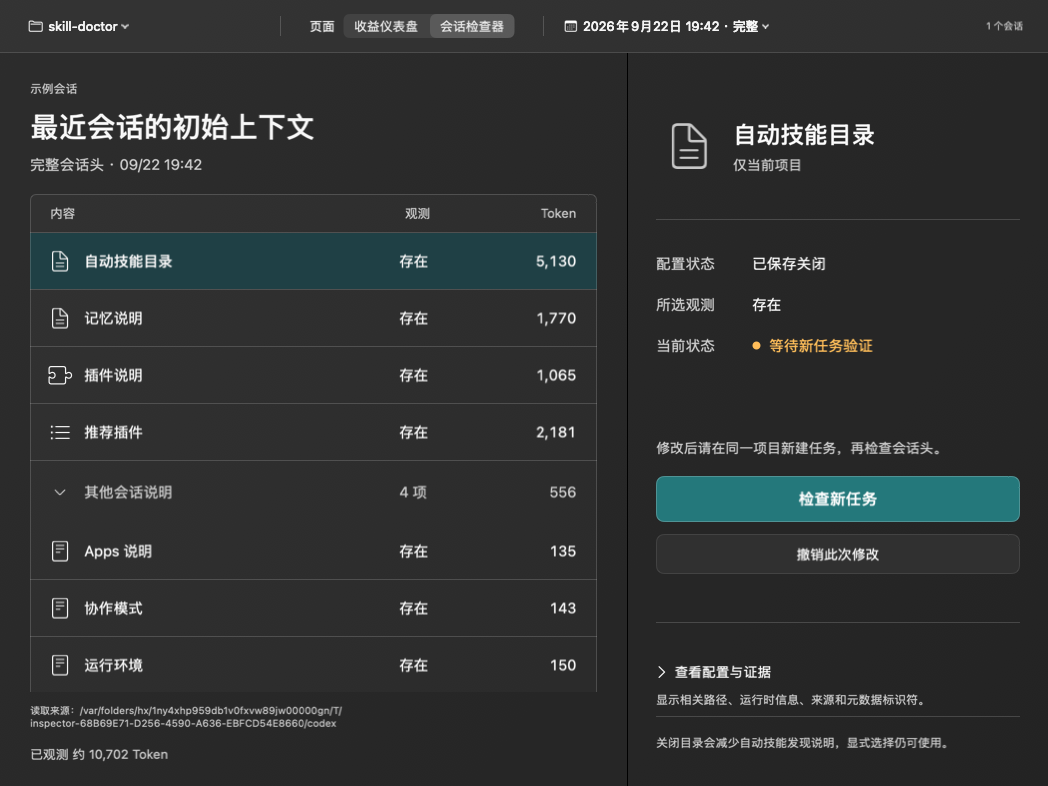
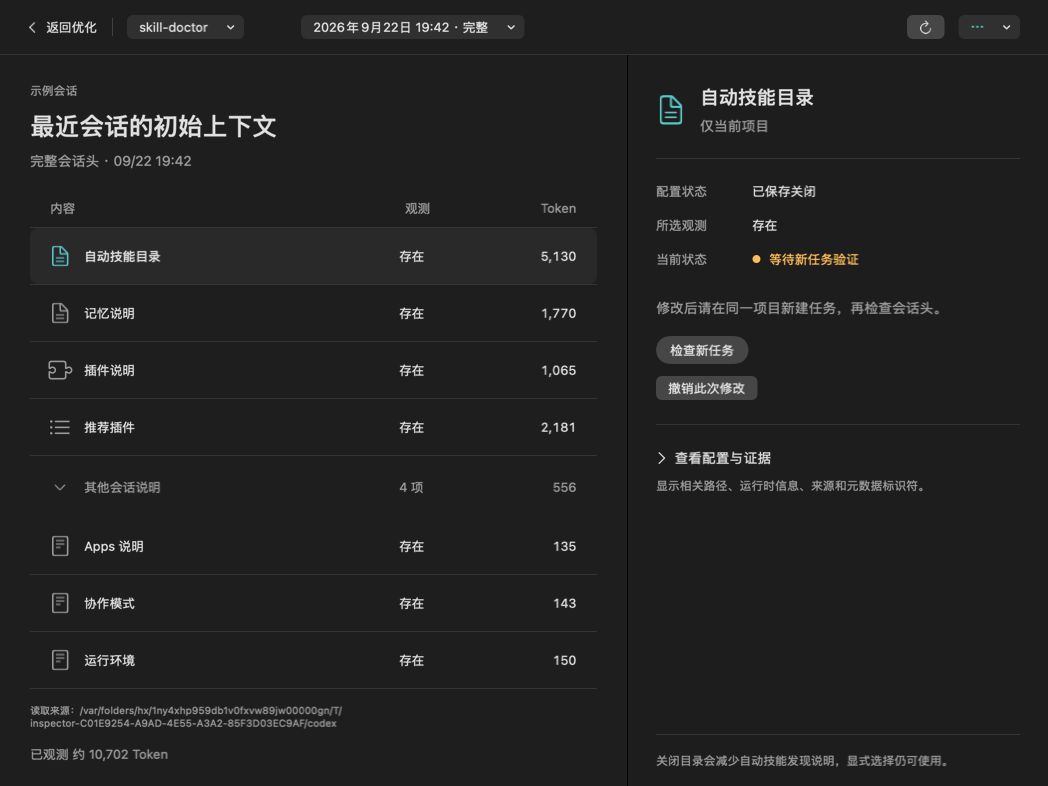
feat(ui): unify session inspector with native workbench styling

diff --git a/Sources/CodexContextBar/Dashboard.swift b/Sources/CodexContextBar/Dashboard.swift
@@ -15,22 +15,19 @@ struct Dashboard: View {
             } else {
                 SessionSelectionBar(model: model)
                 InspectorDivider()
-                GeometryReader { geometry in
-                    HSplitView {
-                        overview
-                            .frame(minWidth: 470, idealWidth: 628, maxWidth: .infinity, maxHeight: .infinity)
-                        inspector(compact: geometry.size.height < 720)
-                            .frame(minWidth: 340, idealWidth: 420, maxWidth: 420, maxHeight: .infinity)
-                    }
+                HSplitView {
+                    overview
+                        .frame(minWidth: 470, idealWidth: 628, maxWidth: .infinity, maxHeight: .infinity)
+                    inspector
+                        .frame(minWidth: 340, idealWidth: 420, maxWidth: 420, maxHeight: .infinity)
                 }
             }
         }
-        .background { GlassBackground() }
+        .background(InspectorTheme.background)
         .foregroundStyle(InspectorTheme.text)
 
         .tint(InspectorTheme.teal)
         .frame(minWidth: 880, minHeight: 640)
-        .toolbar { if !model.showingSavings { InspectorToolbar(model: model) } }
         .sheet(item: $model.preview) { preview in ConfigPreviewSheet(model: model, preview: preview) }
         .sheet(isPresented: $model.showingHistory) { OperationHistorySheet(model: model) }
         .alert(model.language.text("无法完成操作"), isPresented: Binding(get: { model.error != nil }, set: { if !$0 { model.error = nil } })) {
@@ -48,9 +45,9 @@ struct Dashboard: View {
                 Text(model.language.text(model.isDesignPreview ? "示例会话" : "历史会话"))
                     .font(.system(size: 12)).foregroundStyle(InspectorTheme.secondary)
                 Text(model.language.text(model.selected?.id == model.sessions.first?.id ? "最近会话的初始上下文" : "所选会话的初始上下文"))
-                    .font(.system(size: 30, weight: .semibold))
+                    .font(.system(size: 26, weight: .semibold))
                     .fixedSize(horizontal: false, vertical: true)
-                Text(sessionSubtitle).font(.system(size: 15)).foregroundStyle(InspectorTheme.secondary)
+                Text(sessionSubtitle).font(.system(size: 14)).foregroundStyle(InspectorTheme.secondary)
             }.padding(.bottom, 20)
             if let session = model.selected, !session.complete {
                 VStack(alignment: .leading, spacing: 10) {
@@ -98,7 +95,7 @@ struct Dashboard: View {
                                     Text(String(format: model.language.text("%d 项"), otherItems.count)).frame(width: 84, alignment: .leading)
                                     Text(otherItems.compactMap { $0.tokens(in: model.selected) }.reduce(0, +).formatted()).monospacedDigit().frame(width: 80, alignment: .trailing)
                                 }
-                                .font(.system(size: 15)).foregroundStyle(InspectorTheme.secondary)
+                                .font(.system(size: 13)).foregroundStyle(InspectorTheme.secondary)
                                 .padding(.horizontal, 20).frame(minHeight: 62).contentShape(Rectangle())
                             }
                             .buttonStyle(.plain)
@@ -106,13 +103,11 @@ struct Dashboard: View {
                             if expandedOthers { ForEach(otherItems) { item in itemRow(item) } }
                         }
                     }
-                    .background(.white.opacity(0.025))
-                    .clipShape(RoundedRectangle(cornerRadius: 6))
-                    .overlay(RoundedRectangle(cornerRadius: 6).strokeBorder(InspectorTheme.line))
+
 
 
                 }
-                .scrollIndicators(.visible)
+                .scrollIndicators(.automatic)
             }
             if let warning = model.warning {
                 inlineNotice(model.language.text(warning))
@@ -141,16 +136,17 @@ struct Dashboard: View {
                 showingEvidence = false
             } label: {
                 HStack(spacing: 14) {
-                    Image(systemName: item.symbol).font(.system(size: 20, weight: .light)).frame(width: 20)
-                    Text(model.language.text(item.title)).fontWeight(model.selectedKind == item.id ? .medium : .regular)
+                    Image(systemName: item.symbol).font(.system(size: 20, weight: .regular)).frame(width: 20)
+                        .foregroundStyle(model.selectedKind == item.id ? InspectorTheme.teal : InspectorTheme.secondary)
+                    Text(model.language.text(item.title)).lineLimit(2).truncationMode(.middle).fontWeight(model.selectedKind == item.id ? .medium : .regular)
                         .frame(maxWidth: .infinity, alignment: .leading)
                     Text(model.language.text(item.observation(in: model.selected))).frame(width: 84, alignment: .leading)
                     Text(item.tokens(in: model.selected)?.formatted() ?? "—")
                         .monospacedDigit().frame(width: 80, alignment: .trailing)
                 }
-                .font(.system(size: 15))
+                .font(.system(size: 13))
                 .padding(.horizontal, 20).frame(minHeight: 56)
-                .background(model.selectedKind == item.id ? InspectorTheme.selection : .clear)
+                .background(model.selectedKind == item.id ? InspectorTheme.selection.opacity(0.5) : .clear, in: RoundedRectangle(cornerRadius: 8))
                 .contentShape(Rectangle())
             }
             .buttonStyle(.plain)
@@ -159,41 +155,41 @@ struct Dashboard: View {
         }
     }
 
-    private func inspector(compact: Bool) -> some View {
+    private var inspector: some View {
         VStack(alignment: .leading, spacing: 0) {
             ScrollView {
                 VStack(alignment: .leading, spacing: 0) {
-                    HStack(alignment: .center, spacing: 20) {
+                    HStack(alignment: .center, spacing: 14) {
                         Image(systemName: model.selectedItem.symbol)
-                            .font(.system(size: 44, weight: .light)).foregroundStyle(InspectorTheme.secondary)
+                            .font(.system(size: 28, weight: .regular)).foregroundStyle(InspectorTheme.teal)
                         VStack(alignment: .leading, spacing: 8) {
-                            Text(model.language.text(model.selectedItem.title)).font(.system(size: 25, weight: .semibold))
+                            Text(model.language.text(model.selectedItem.title)).font(.system(size: 20, weight: .semibold))
                                 .fixedSize(horizontal: false, vertical: true)
                             Text(model.language.text(model.selectedItem.scope)).font(.system(size: 14)).foregroundStyle(InspectorTheme.secondary)
                         }
                     }
-                    .padding(.leading, 10)
-                    .padding(.top, compact ? 34 : 66).padding(.bottom, compact ? 30 : 46)
+                    .padding(.top, 30).padding(.bottom, 24)
                     InspectorDivider()
-                    VStack(alignment: .leading, spacing: compact ? 18 : 22) {
+                    VStack(alignment: .leading, spacing: 18) {
                         detailRow("配置状态", value: model.configurationLabel(for: model.selectedItem.target))
                         detailRow("所选观测", value: model.language.text(model.selectedItem.observation(in: model.selected)))
                         HStack(alignment: .top, spacing: 18) {
-                            Text(model.language.text("当前状态")).foregroundStyle(InspectorTheme.secondary).frame(width: 78, alignment: .leading)
+                            Text(model.language.text("当前状态")).foregroundStyle(InspectorTheme.secondary).frame(width: model.language == .english ? 104 : 78, alignment: .leading)
                             StatusLabel(text: model.language.text(statusText), color: statusColor).fixedSize(horizontal: false, vertical: true)
-                        }.font(.system(size: 15))
-                    }.padding(.vertical, compact ? 22 : 34)
-                    actions.padding(.top, compact ? 14 : 50).padding(.bottom, compact ? 24 : 48)
+                        }.font(.system(size: 13))
+                    }.padding(.vertical, 24)
+                    actions.padding(.top, 8).padding(.bottom, 24)
                     InspectorDivider()
-                    evidence.padding(.vertical, compact ? 22 : 40)
+                    evidence.padding(.vertical, 24)
                 }
             }.scrollIndicators(.automatic)
             InspectorDivider()
             Text(model.language.text(model.selectedItem.consequence))
                 .font(.system(size: 12)).lineSpacing(3).foregroundStyle(InspectorTheme.secondary)
                 .fixedSize(horizontal: false, vertical: true)
-                .padding(.top, 18).padding(.bottom, compact ? 20 : 36)
+                .padding(.vertical, 18)
         }.padding(.horizontal, 28)
+            .background(InspectorTheme.raised.opacity(0.45))
     }
 
     @ViewBuilder private var actions: some View {
@@ -203,17 +199,17 @@ struct Dashboard: View {
                     .fixedSize(horizontal: false, vertical: true).padding(.bottom, 8)
                 if let result = model.result(for: target), result.state == .waiting || result.state == .mismatch || result.state == .configChanged {
                     Button(model.language.text(model.refreshing ? "正在检查…" : "检查新任务")) { Task { await model.refresh() } }
-                        .buttonStyle(InspectorButtonStyle(prominent: true)).disabled(model.refreshing)
+                        .buttonStyle(.borderedProminent).controlSize(.large).disabled(model.refreshing)
                 } else {
                     Button(model.language.text(model.configuredValues[target] == false ? "预览开启" : "预览关闭")) {
                         model.prepare(target, enabled: model.configuredValues[target] == false)
                     }
-                    .buttonStyle(InspectorButtonStyle(prominent: true))
+                    .buttonStyle(.borderedProminent).controlSize(.large)
                     .disabled(model.selected?.complete != true || model.configProblems[target] != nil)
                 }
                 if let operation = model.operation(for: target), !operation.restored {
                     Button(model.language.text("撤销此次修改")) { undoCandidate = operation }
-                        .buttonStyle(InspectorButtonStyle())
+                        .buttonStyle(.bordered)
                 }
                 if let result = model.result(for: target), result.state == .configChanged {
                     Button(model.language.text("重新预览配置")) { model.prepare(target, enabled: model.configuredValues[target] == false) }
@@ -227,7 +223,7 @@ struct Dashboard: View {
                     .font(.system(size: 14)).lineSpacing(4).foregroundStyle(InspectorTheme.secondary)
                 if model.selectedItem.id == "plugins.recommendations" {
                     Button(model.language.text("查看 Plugins 功能")) { model.selectedKind = "plugins.usage_instructions" }
-                        .buttonStyle(InspectorButtonStyle())
+                        .buttonStyle(.bordered)
                 }
             }
         }
@@ -280,9 +276,9 @@ struct Dashboard: View {
 
     private func detailRow(_ title: String, value: String) -> some View {
         HStack(alignment: .top, spacing: 18) {
-            Text(model.language.text(title)).foregroundStyle(InspectorTheme.secondary).frame(width: 78, alignment: .leading)
+            Text(model.language.text(title)).foregroundStyle(InspectorTheme.secondary).frame(width: model.language == .english ? 104 : 78, alignment: .leading)
             Text(value).fixedSize(horizontal: false, vertical: true)
-        }.font(.system(size: 15))
+        }.font(.system(size: 13))
     }
 
     private var statusText: String {
@@ -338,7 +334,7 @@ struct Dashboard: View {
             Text(model.language.text(title)).font(.system(size: 21, weight: .medium))
             Text(model.language.text(description)).font(.system(size: 14)).foregroundStyle(InspectorTheme.secondary).lineSpacing(4)
             Button(model.language.text(model.project == nil ? "选择项目" : "检查会话"), action: action)
-                .buttonStyle(InspectorButtonStyle(prominent: true)).frame(maxWidth: 240).disabled(model.refreshing)
+                .buttonStyle(.borderedProminent).controlSize(.large).frame(maxWidth: 240).disabled(model.refreshing)
         }.frame(maxWidth: .infinity, alignment: .leading).padding(.top, 42)
     }
 }

diff --git a/Sources/CodexContextBar/InspectorToolbar.swift b/Sources/CodexContextBar/InspectorToolbar.swift
@@ -22,62 +22,77 @@ struct ProjectMenu: View {
     }
 }
 
-struct InspectorToolbar: ToolbarContent {
+struct WorkbenchSettings: View {
     @Bindable var model: AppModel
-    var body: some ToolbarContent {
-        ToolbarItemGroup(placement: .primaryAction) {
-            Button { Task { await model.refresh() } } label: {
-                if model.refreshing { ProgressView().controlSize(.small) }
-                else { Image(systemName: "arrow.clockwise") }
-            }.disabled(model.refreshing || model.project == nil).help(model.language.text("检查新的会话记录")).accessibilityLabel(model.language.text("刷新会话"))
-            GlassAppearanceControl()
-            Menu {
-                Button(model.language.text("简体中文")) { model.language = .chinese }
-                Button("English") { model.language = .english }
-            } label: { Image(systemName: "globe") }
-            .accessibilityLabel(model.language.text("语言"))
-            Menu {
-                Button(model.language.text("修改记录")) { model.showingHistory = true }
-                Button(model.language.text("选择 Codex 数据目录…"), action: model.chooseCodexHome)
-            } label: { Image(systemName: "ellipsis.circle") }
-            .accessibilityLabel(model.language.text("更多选项"))
+    @Environment(\.dismiss) private var dismiss
+    var body: some View {
+        VStack(alignment: .leading, spacing: 18) {
+            Text(model.language.text("设置")).font(.headline)
+            Picker(model.language.text("语言"), selection: $model.language) {
+                Text("简体中文").tag(AppLanguage.chinese)
+                Text("English").tag(AppLanguage.english)
+            }
+            HStack {
+                Text(model.language.text("外观与透明度"))
+                Spacer()
+                GlassAppearanceControl()
+            }
+            Divider()
+            Text(model.language.text("Codex 数据目录")).font(.subheadline)
+            Text(model.codexHome.path).font(.caption).foregroundStyle(.secondary).textSelection(.enabled)
+                .fixedSize(horizontal: false, vertical: true)
+            Button(model.language.text("选择 Codex 数据目录…")) { dismiss(); model.chooseCodexHome() }
+            Button(model.language.text("恢复默认数据目录")) { dismiss(); model.restoreDefaultCodexHome() }
         }
+        .padding(20).frame(width: 300)
+        .foregroundStyle(InspectorTheme.text).background(InspectorTheme.background)
+        .environment(\.appLanguage, model.language)
     }
+
 }
 
 struct SessionSelectionBar: View {
     @Bindable var model: AppModel
+    @State private var showingSettings = false
+
     var body: some View {
-        HStack(spacing: 16) {
-            ProjectMenu(model: model).labelStyle(.titleAndIcon).frame(maxWidth: 240, alignment: .leading)
-            Divider().frame(height: 20)
-            Button {
-                model.showingSavings = true
-            } label: {
+        HStack(spacing: 14) {
+            Button { model.showingSavings = true } label: {
                 Label(model.language.text("返回优化"), systemImage: "chevron.left")
             }
             .buttonStyle(.plain)
-            if !model.showingSavings {
-                Divider().frame(height: 20)
-                Menu {
-                    if model.sessions.isEmpty { Text(model.language.text("暂无会话")) }
-                    ForEach(model.sessions) { session in
-                        Button { model.selectedID = session.id } label: {
-                            Text("\(session.id == model.selected?.id ? "✓ " : "")\(session.date.formatted(date: .abbreviated, time: .shortened)) · \(session.id.suffix(8)) · \(model.language.text(session.complete ? "完整" : "不完整"))")
-                        }
+            Divider().frame(height: 18)
+            ProjectMenu(model: model).labelStyle(.titleOnly).frame(maxWidth: 160, alignment: .leading)
+            Menu {
+                if model.sessions.isEmpty { Text(model.language.text("暂无会话")) }
+                ForEach(model.sessions) { session in
+                    Button { model.selectedID = session.id } label: {
+                        Text("\(session.id == model.selected?.id ? "✓ " : "")\(session.date.formatted(date: .abbreviated, time: .shortened)) · \(session.id.suffix(8)) · \(model.language.text(session.complete ? "完整" : "不完整"))")
                     }
-                } label: {
-                    Label(model.selected.map { "\($0.date.formatted(date: .abbreviated, time: .shortened)) · \(model.language.text($0.complete ? "完整" : "不完整"))" } ?? model.language.text("选择会话"), systemImage: "calendar")
-                }.disabled(model.sessions.isEmpty).labelStyle(.titleAndIcon)
+                }
+            } label: {
+                Text(model.selected.map { "\($0.date.formatted(date: .abbreviated, time: .shortened)) · \(model.language.text($0.complete ? "完整" : "不完整"))" } ?? model.language.text("选择会话"))
+                    .lineLimit(1)
             }
-            Spacer(minLength: 0)
-            Text(model.showingSavings ? model.savings.map { String(format: model.language.text("%d 个完整会话"), $0.all30.sessionCount) } ?? model.language.text("等待扫描")
-                : String(format: model.language.text("%d 个会话"), model.sessions.count))
-                .font(.caption).foregroundStyle(InspectorTheme.secondary)
+            .disabled(model.sessions.isEmpty)
+            .accessibilityLabel(model.language.text("选择会话"))
+            Spacer(minLength: 8)
+            Button { Task { await model.refresh() } } label: {
+                if model.refreshing { ProgressView().controlSize(.small) }
+                else { Image(systemName: "arrow.clockwise") }
+            }
+            .disabled(model.refreshing || model.project == nil)
+            .help(model.language.text("检查新的会话记录"))
+            .accessibilityLabel(model.language.text("刷新会话"))
+            Menu {
+                Button(model.language.text("修改记录")) { model.showingHistory = true }
+                Button(model.language.text("设置")) { showingSettings = true }
+            } label: { Image(systemName: "ellipsis") }
+            .accessibilityLabel(model.language.text("更多选项"))
+            .popover(isPresented: $showingSettings) { WorkbenchSettings(model: model) }
         }
-        .menuStyle(.borderlessButton)
-        .tint(InspectorTheme.text)
-        .padding(.horizontal, 24).padding(.vertical, 14)
-        .background(.white.opacity(0.035))
+        .font(.system(size: 13))
+        .padding(.horizontal, 28).frame(height: 54)
+        .background(InspectorTheme.background)
     }
 }

diff --git a/Sources/CodexContextBar/SavingsDashboard.swift b/Sources/CodexContextBar/SavingsDashboard.swift
@@ -85,7 +85,7 @@ struct SavingsDashboard: View {
                     Label(model.language.text("设置"), systemImage: "gearshape")
                         .frame(maxWidth: .infinity, alignment: .leading).padding(10)
                 }
-                .popover(isPresented: $showingSettings) { settings }
+                .popover(isPresented: $showingSettings) { WorkbenchSettings(model: model) }
             }
             .buttonStyle(.plain).font(.system(size: 13))
             .padding(.bottom, 14)
@@ -359,28 +359,6 @@ struct SavingsDashboard: View {
         }
         .frame(maxWidth: 430, alignment: .leading).padding(36)
         .frame(maxWidth: .infinity, maxHeight: .infinity, alignment: .center)
-    }
-
-    private var settings: some View {
-        VStack(alignment: .leading, spacing: 18) {
-            Text(model.language.text("设置")).font(.headline)
-            Picker(model.language.text("语言"), selection: $model.language) {
-                Text("简体中文").tag(AppLanguage.chinese)
-                Text("English").tag(AppLanguage.english)
-            }
-            HStack {
-                Text(model.language.text("外观与透明度"))
-                Spacer()
-                GlassAppearanceControl()
-            }
-            Divider()
-            Text(model.language.text("Codex 数据目录")).font(.subheadline)
-            Text(model.codexHome.path).font(.caption).foregroundStyle(.secondary).textSelection(.enabled)
-                .fixedSize(horizontal: false, vertical: true)
-            Button(model.language.text("选择 Codex 数据目录…")) { showingSettings = false; model.chooseCodexHome() }
-            Button(model.language.text("恢复默认数据目录")) { showingSettings = false; model.restoreDefaultCodexHome() }
-        }
-        .padding(20).frame(width: 300).environment(\.appLanguage, model.language)
     }
 
     private func money(_ range: ClosedRange<Double>?) -> String {

diff --git a/Tests/InspectorTests/InspectorTests.swift b/Tests/InspectorTests/InspectorTests.swift
@@ -201,6 +201,10 @@ private func makeHeader(project: URL, file: URL, kinds: [(String, Int)]? = nil) 
     try snapshot(MenuContent(model: fixture.model), size: CGSize(width: 316, height: 400), to: destination.appendingPathComponent("menu-light.png"), scheme: .light)
     try snapshot(MenuContent(model: fixture.model), size: CGSize(width: 316, height: 356), to: destination.appendingPathComponent("menu.png"))
     try snapshot(Dashboard(model: fixture.model), size: CGSize(width: 880, height: 640), to: destination.appendingPathComponent("inspector-compact.png"))
+    fixture.model.language = .english
+    try snapshot(Dashboard(model: fixture.model).environment(\.locale, fixture.model.language.locale), size: CGSize(width: 880, height: 640), to: destination.appendingPathComponent("inspector-compact-en.png"), scheme: .light)
+    try snapshot(WorkbenchSettings(model: fixture.model), size: CGSize(width: 340, height: 310), to: destination.appendingPathComponent("shared-settings.png"), scheme: .light)
+    fixture.model.language = .chinese
     fixture.model.selectedKind = "plugins.recommendations"
     try snapshot(Dashboard(model: fixture.model), size: CGSize(width: 1048, height: 786), to: destination.appendingPathComponent("recommendations.png"))
     let project = try #require(fixture.model.project)

diff --git a/design-qa.md b/design-qa.md
@@ -73,3 +73,12 @@ Source is 1448×1086 pixels including a generated window frame and surrounding s
 Evidence: `docs/design/workbench-light.png`, `workbench-dark.png`, `workbench-compact-en.png`, `workbench-all.png`, `workbench-no-data.png`, `workbench-welcome.png`, `workbench-pending.png`.
 
 final result: passed for native app-content layout and automated state verification. Live mouse/keyboard, active-window control coloring and compositor blur remain unverified: the native Computer Use connection previously timed out (-10005). This is not a claim of completed end-to-end GUI validation.
+
+
+## 2026-09-27 — unify session details with the workbench
+
+Compared the actual workbench-light and updated inspector light/dark/compact renders in the same tool response. The user's screenshot identified oversized titlebar controls, dense boxed rows and excessive detail-panel spacing. The inspector now uses the main screen's semantic surfaces, 26pt heading, 13–14pt body, 54pt context toolbar, subtle 8pt selection radius and restrained teal icons. Back navigation comes first; refresh and a single More menu replace the separate titlebar appearance/language menus. Both pages use WorkbenchSettings. Native compact actions replace full-width custom buttons.
+
+Iteration: English Configuration label broke mid-word at 880×640; widened English state labels and re-rendered. The shared settings snapshot needed explicit semantic foreground/background; corrected and visually verified. Main screenshots are 1048×786, compact snapshots 880×640, shared settings 340×310, synthetic fixtures only. Both appearance modes, compact English labels and settings contents were inspected. The snapshot harness formats dates using its Chinese locale; production follows the app/system locale.
+
+47 tests, release app build and git diff --check passed. No configuration semantics changed. final result: passed for app-content visual checks; live mouse/keyboard and window-chrome interaction remain unverified. Evidence: inspector-light.png, inspector.png, inspector-compact.png, inspector-compact-en.png and shared-settings.png under docs/design.

diff --git a/README.md b/README.md
@@ -100,7 +100,7 @@ CONTEXT_BAR_SNAPSHOT_DIR=/tmp/context-bar-snapshots swift test
 
 ## 磨砂玻璃外观
 
-主窗口和菜单栏面板使用 macOS 原生背景模糊。在侧栏“设置”中，或点击检查器工具栏、菜单栏面板底部的半圆图标，可实时调整背景透明度（0–85%，默认 65%），并自动保存到应用偏好设置。文字和按钮不随背景变透明。系统开启“减少透明度”时使用实色背景。
+主窗口和菜单栏面板使用 macOS 原生背景模糊。在侧栏“设置”中，在会话详情页右上角“更多 → 设置”中，或点击菜单栏面板底部的半圆图标，可实时调整背景透明度（0–85%，默认 65%），并自动保存到应用偏好设置。文字和按钮不随背景变透明。系统开启“减少透明度”时使用实色背景。
 
 配置验证用的会话头读取在判定点立即结束；费用分析另外流式读取历史，只保留用量与目标 Token 计数，不保留正文。分块读取只解析完整 JSON 行，单行读取有内存上限。刷新时工具栏显示加载状态。
 
